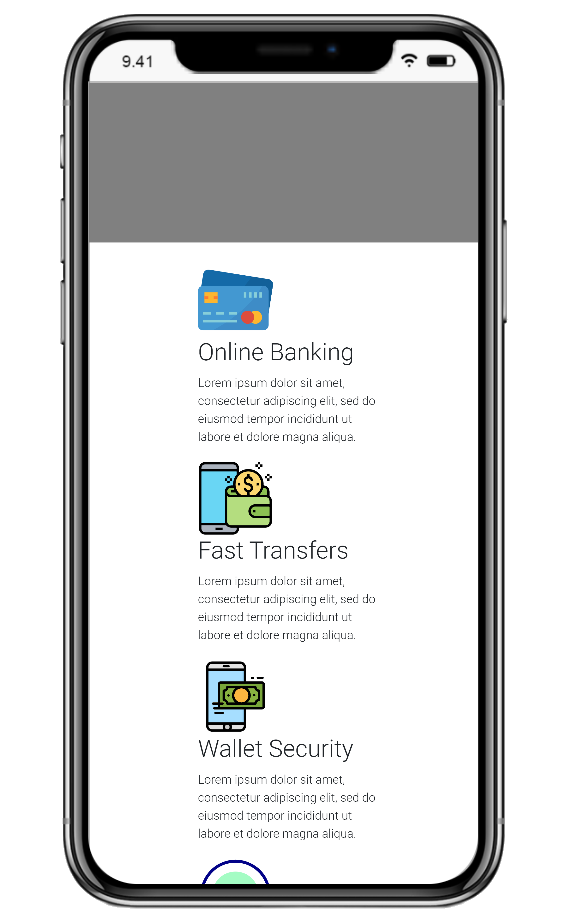
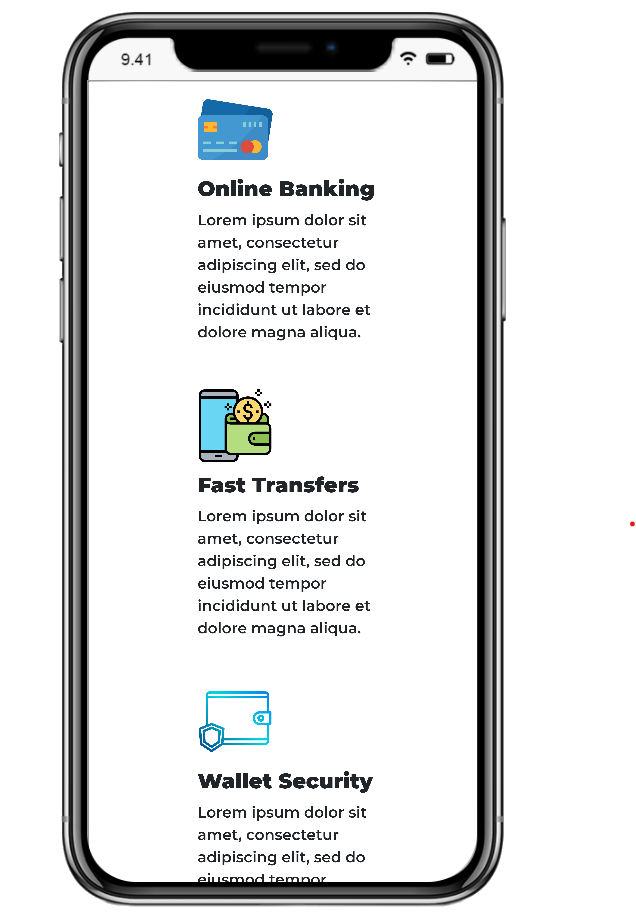
good

diff --git a/style.scss b/style.scss
@@ -111,14 +111,14 @@ html, body {
         align-items: center;
         .flexchild {
             margin-bottom: 2rem;
+            width: 90% !important;
+            text-align: center;
         }
         h3 {
-            font-weight: 900 !important;
-            font-size: 28px !important;
+            font-weight: 700 !important;
         }
         p {
-            font-weight: 600 !important;
-            font-size: 20px !important;
+            font-weight: 500 !important;
         }
     }
 }

diff --git a/style.css b/style.css
@@ -160,14 +160,14 @@ html, body {
   }
   .content1flex .flexchild {
     margin-bottom: 2rem;
+    width: 90% !important;
+    text-align: center;
   }
   .content1flex h3 {
-    font-weight: 900 !important;
-    font-size: 28px !important;
+    font-weight: 700 !important;
   }
   .content1flex p {
-    font-weight: 600 !important;
-    font-size: 20px !important;
+    font-weight: 500 !important;
   }
 }
 
